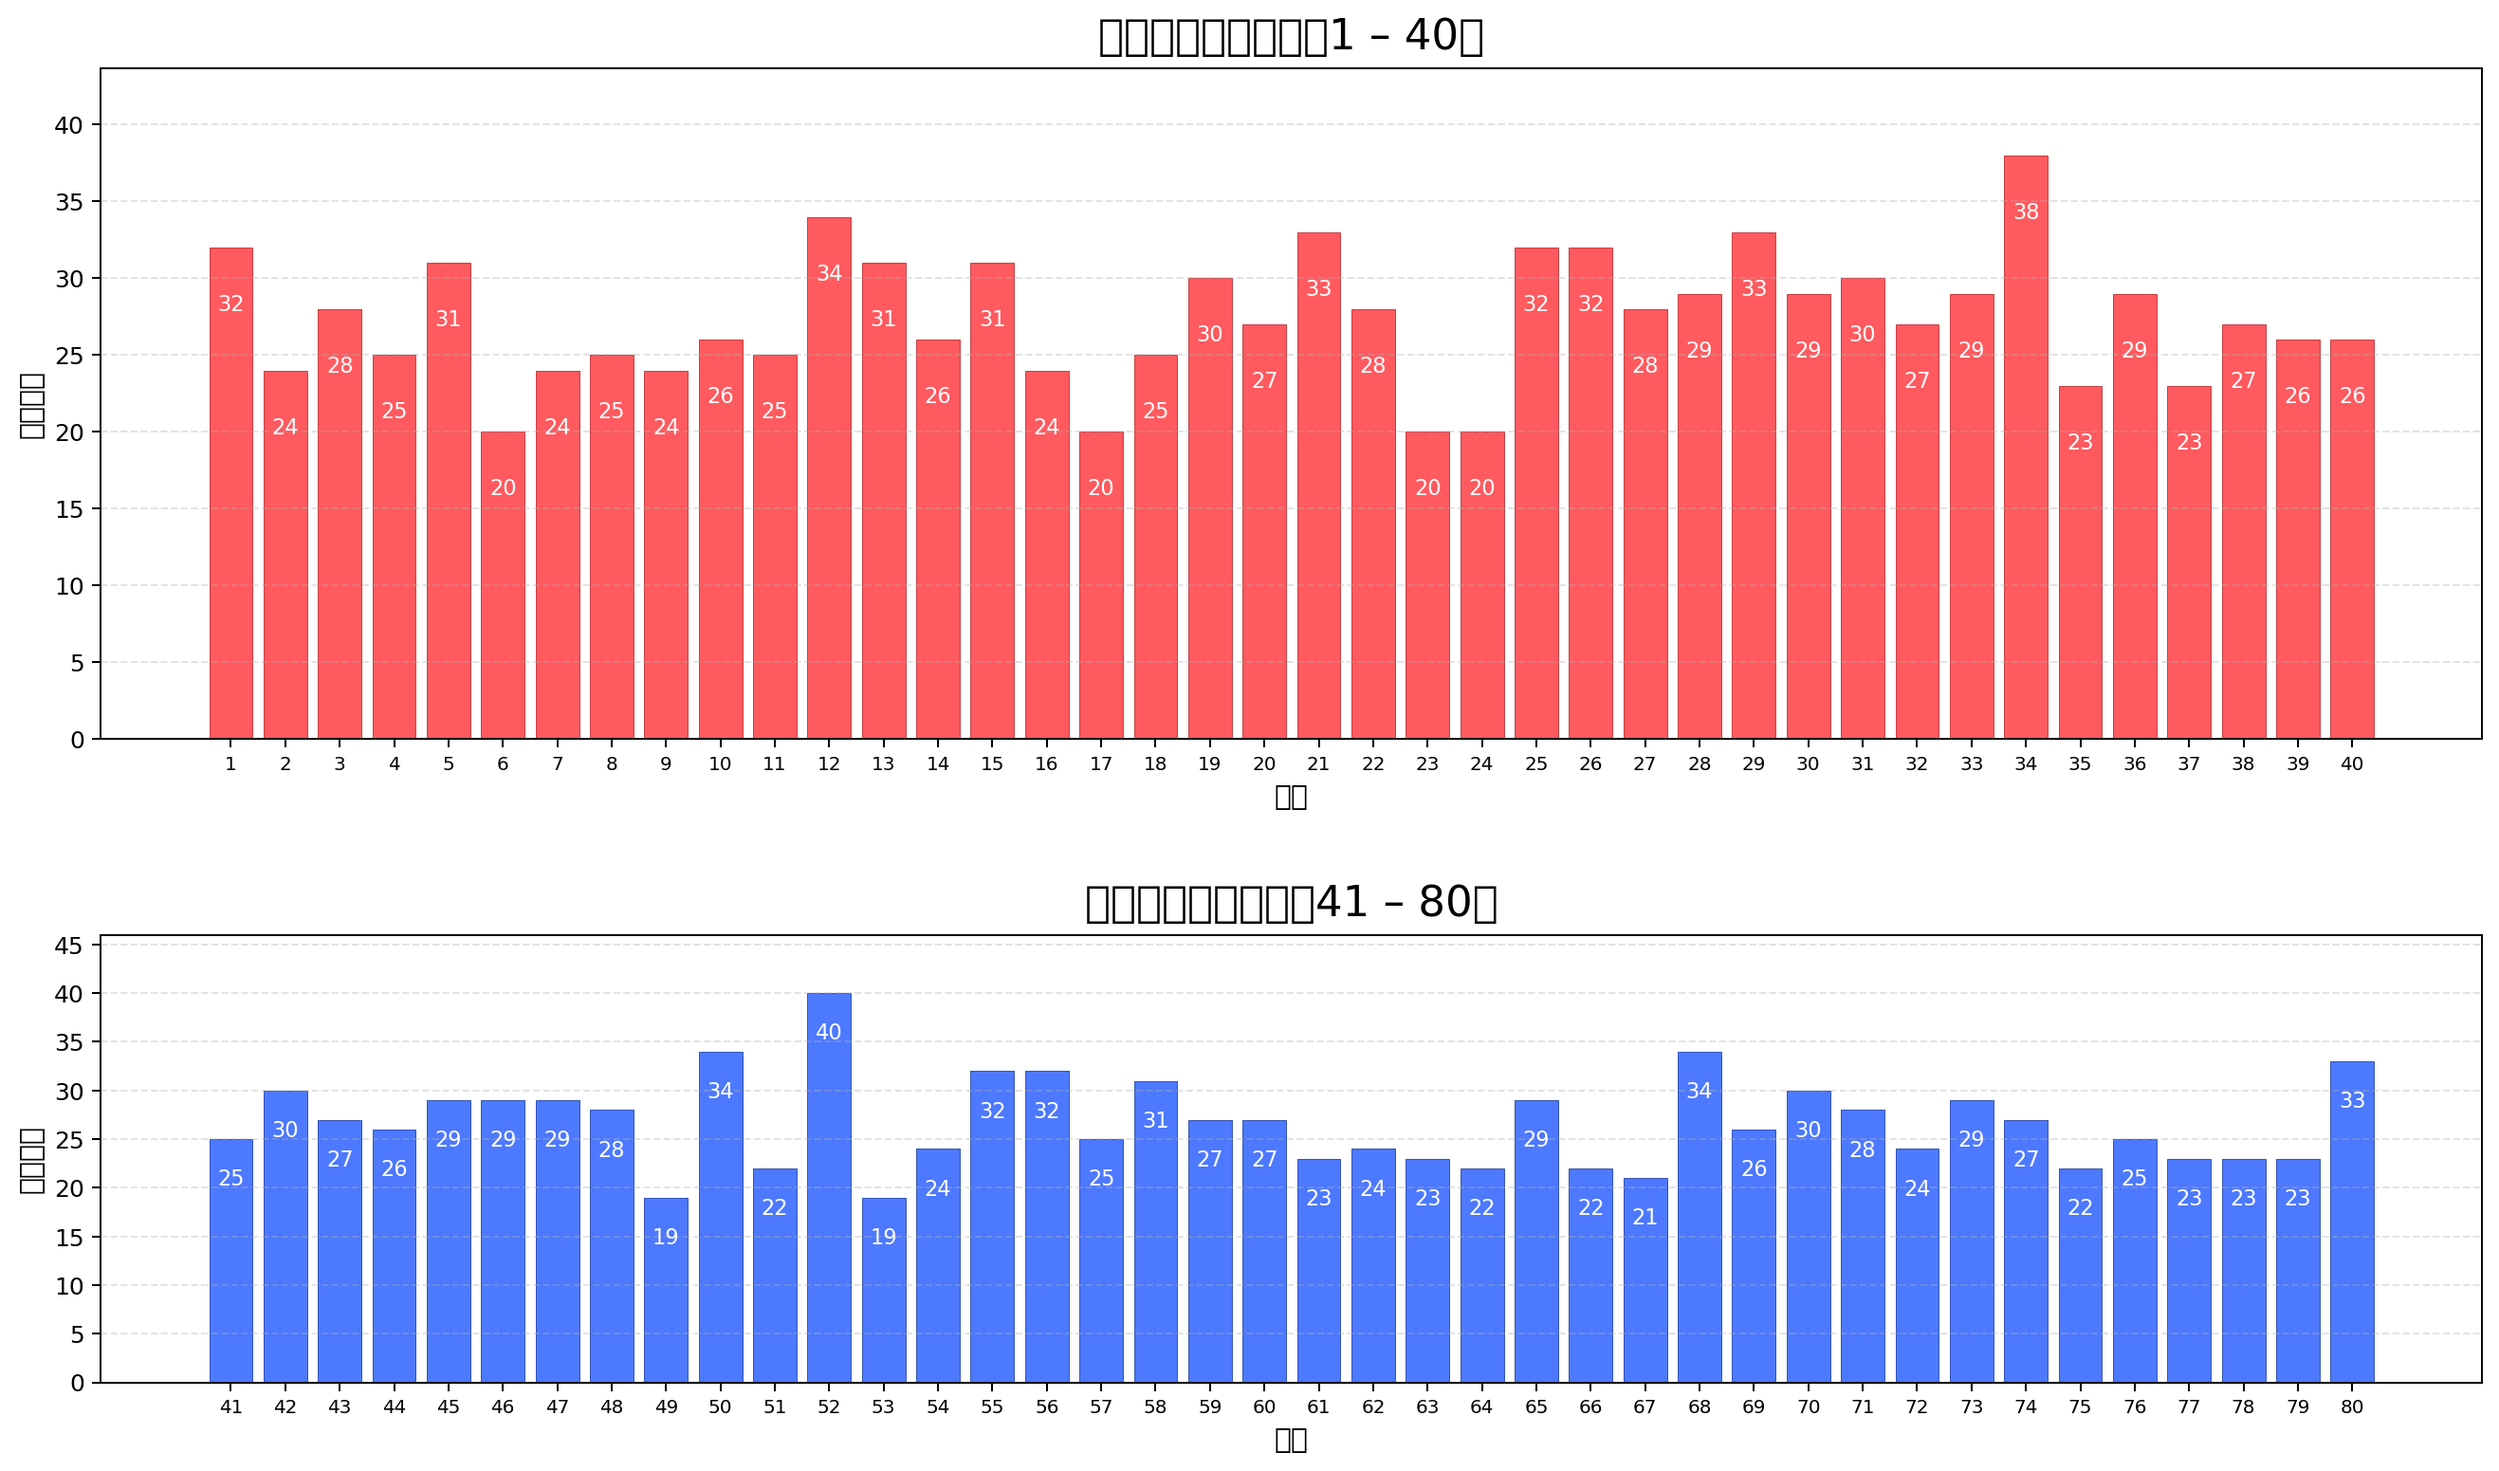
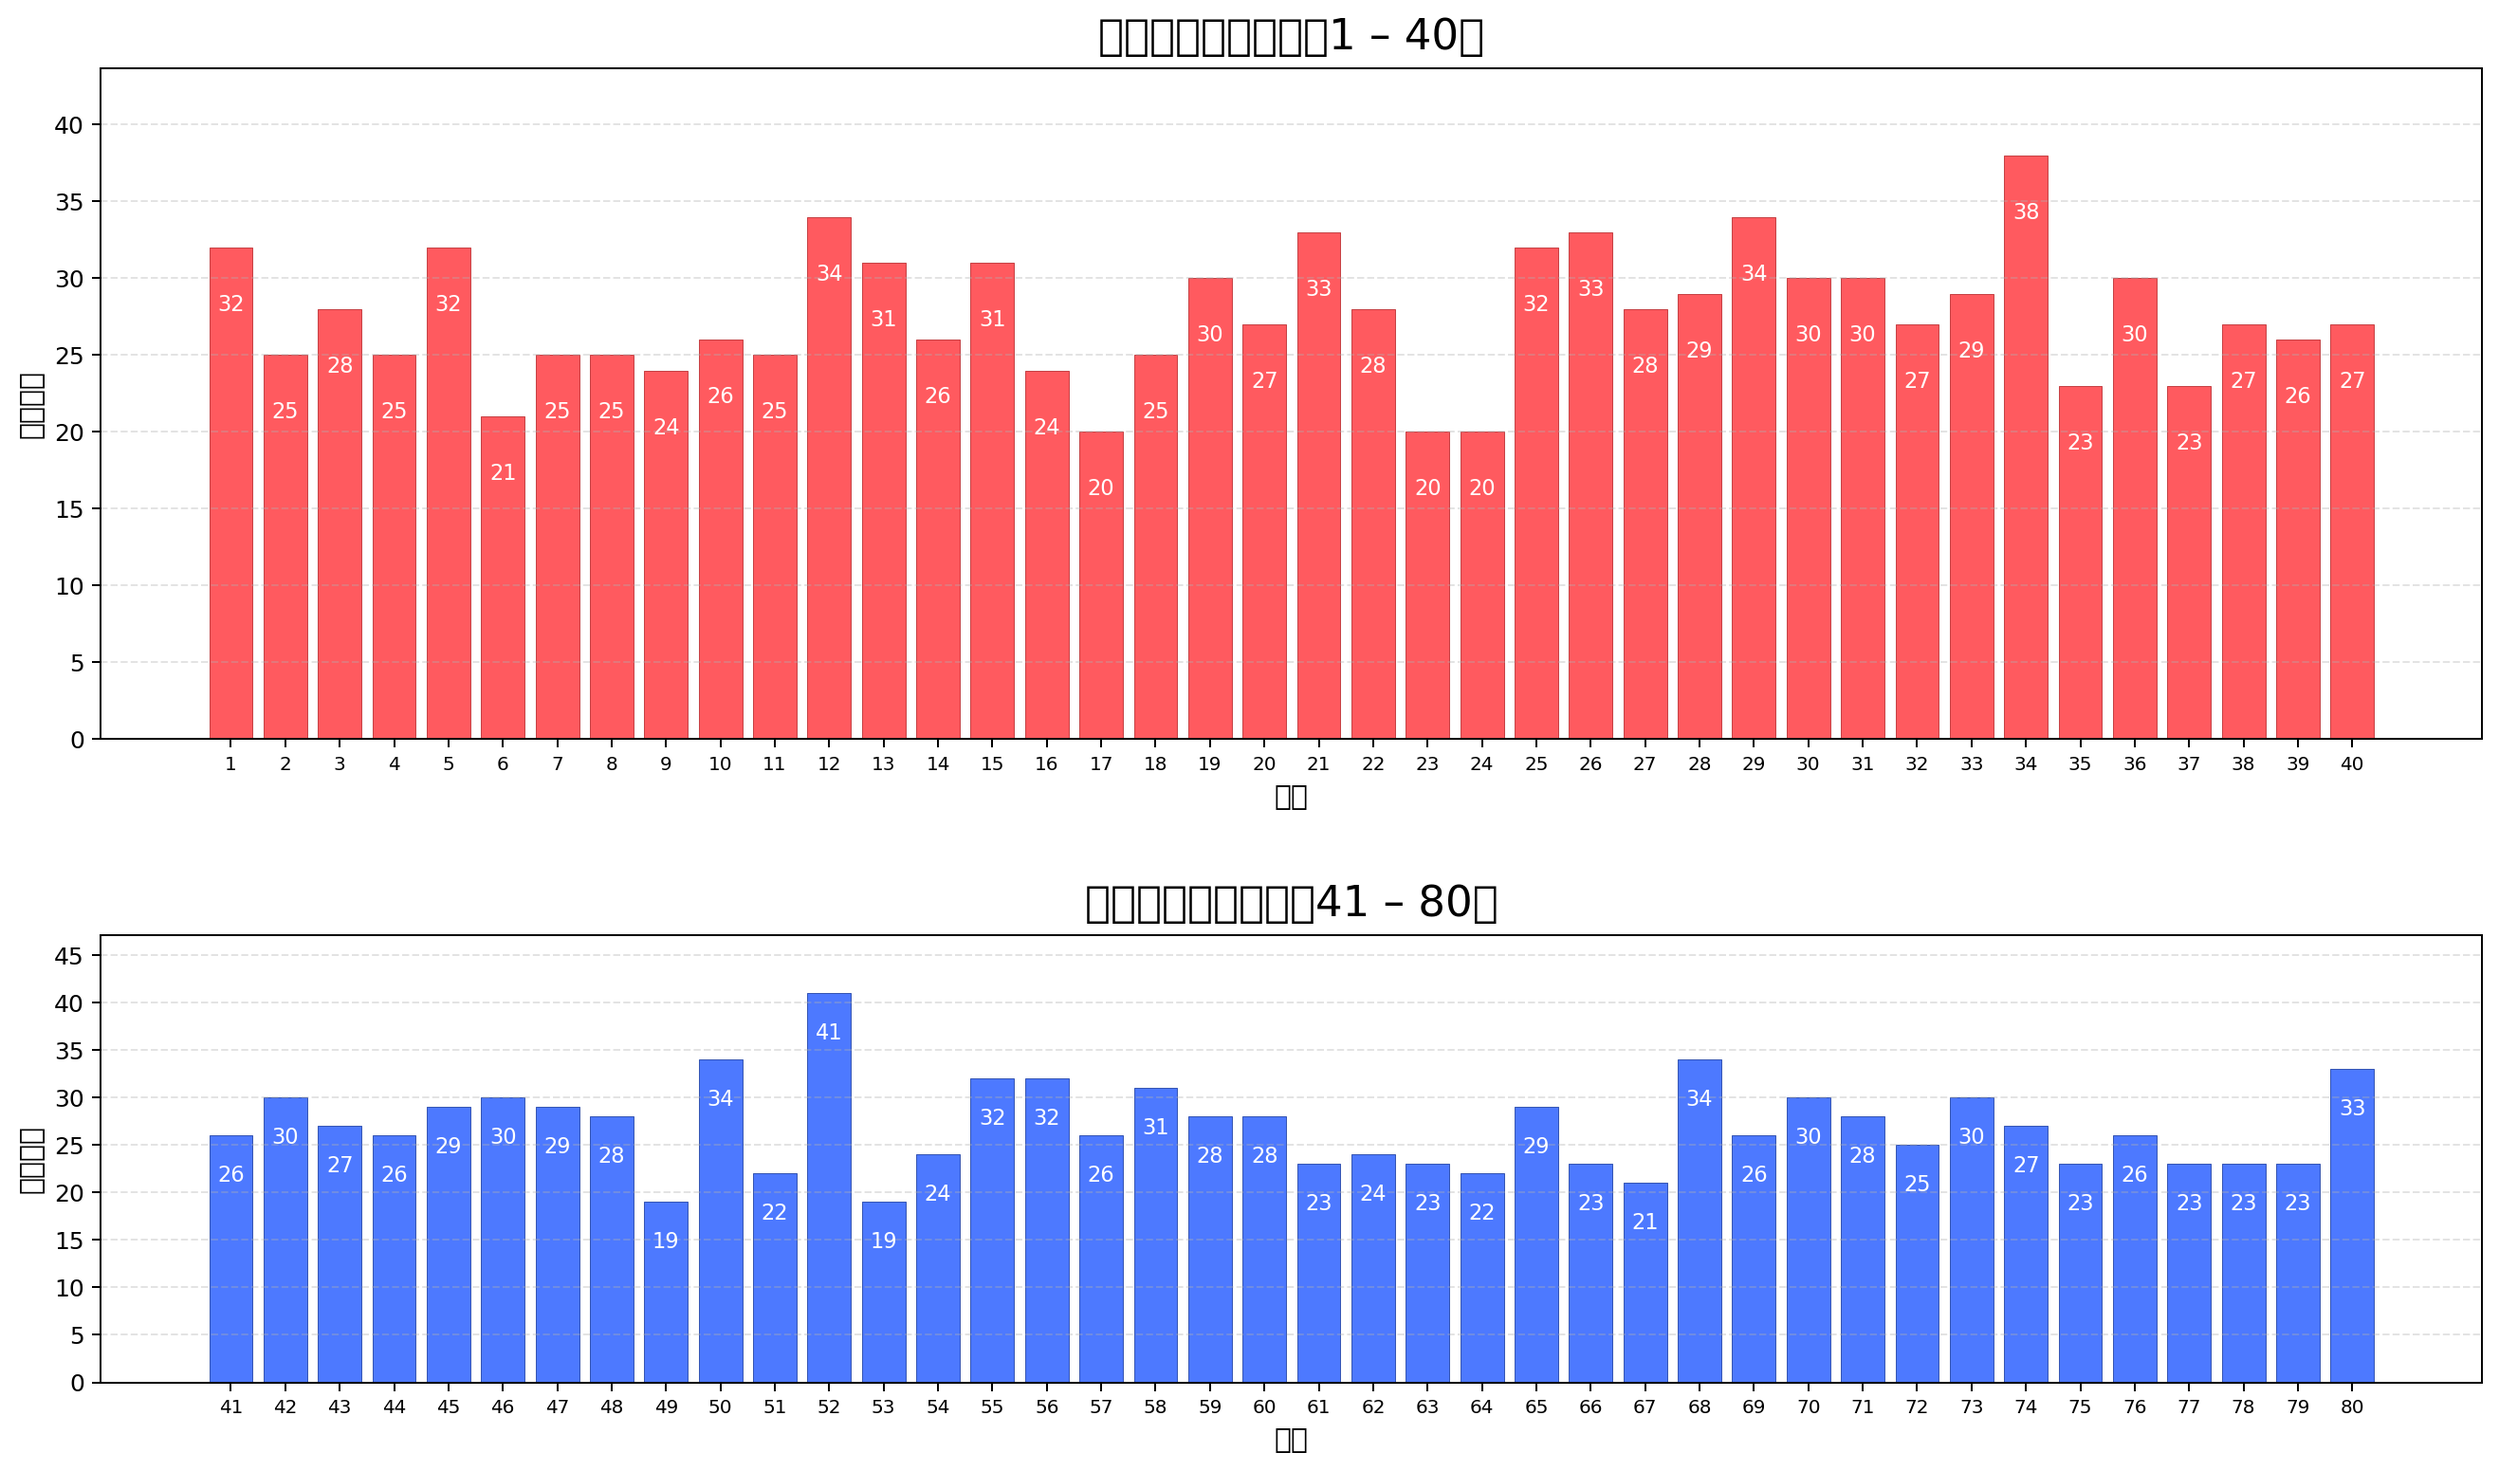
Update lottery data and analysis reports - 2025-08-23 23:13:16 (UTC+8)

diff --git a/reports/kl8_analysis_report.md b/reports/kl8_analysis_report.md
@@ -3,30 +3,30 @@
 > 免责声明：历史数据无法预测未来。本报告仅供技术学习参考，不构成投注建议。
 
 
-**数据期数**: 108 期
+**数据期数**: 109 期
 
-**最近开奖**: 期号 2025224 | 日期 2025-08-22(五) | 号码: 05, 09, 10, 11, 12, 18, 23, 33, 37, 41, 45, 46, 55, 58, 63, 69, 70, 71, 74, 78
+**最近开奖**: 期号 2025225 | 日期 2025-08-23(六) | 号码: 02, 05, 06, 07, 26, 29, 30, 36, 40, 41, 46, 52, 57, 59, 60, 66, 72, 73, 75, 76
 
-**和值均值(样本)**: 804.09 ；**理论期望**: 810
+**和值均值(样本)**: 804.59 ；**理论期望**: 810
 
 
 ## 热号 Top15
 
-52(40), 34(38), 12(34), 50(34), 68(34), 21(33), 29(33), 80(33), 01(32), 25(32), 26(32), 55(32), 56(32), 05(31), 13(31)
+52(41), 34(38), 12(34), 29(34), 50(34), 68(34), 21(33), 26(33), 80(33), 01(32), 05(32), 25(32), 55(32), 56(32), 13(31)
 
 
 ## 冷号 Top15
 
-53(19), 49(19), 24(20), 23(20), 17(20), 06(20), 67(21), 75(22), 66(22), 64(22), 51(22), 79(23), 78(23), 77(23), 63(23)
+53(19), 49(19), 24(20), 23(20), 17(20), 67(21), 06(21), 64(22), 51(22), 79(23), 78(23), 77(23), 75(23), 66(23), 63(23)
 
 
 ## 推荐组合（示例，非投注建议）
 
-- 方案1: 01, 04, 05, 06, 09, 20, 21, 22, 23, 24, 35, 42, 45, 49, 51, 54, 55, 58, 67, 71
-- 方案2: 09, 10, 12, 28, 29, 32, 42, 43, 44, 47, 48, 55, 57, 63, 64, 66, 68, 69, 76, 78
-- 方案3: 04, 17, 18, 19, 21, 22, 26, 27, 33, 36, 43, 49, 50, 55, 60, 67, 69, 71, 74, 80
-- 方案4: 05, 08, 09, 11, 18, 22, 33, 34, 36, 41, 45, 47, 48, 53, 63, 68, 71, 76, 79, 80
-- 方案5: 01, 04, 07, 09, 10, 13, 25, 26, 38, 41, 43, 56, 57, 59, 61, 65, 69, 70, 74, 76
+- 方案1: 01, 03, 04, 05, 07, 20, 21, 22, 23, 25, 36, 42, 46, 50, 52, 55, 56, 59, 68, 72
+- 方案2: 07, 09, 12, 28, 29, 32, 42, 43, 44, 47, 49, 56, 57, 63, 65, 66, 68, 70, 76, 78
+- 方案3: 05, 07, 08, 11, 18, 23, 33, 34, 36, 41, 46, 47, 49, 54, 64, 68, 72, 76, 79, 80
+- 方案4: 01, 03, 05, 08, 09, 13, 25, 27, 38, 41, 43, 57, 58, 60, 62, 66, 70, 71, 74, 76
+- 方案5: 06, 07, 09, 11, 17, 20, 21, 23, 35, 36, 38, 40, 45, 52, 55, 61, 64, 69, 72, 75
 
 ---
 

diff --git a/reports/kl8_profit_plan.md b/reports/kl8_profit_plan.md
@@ -4,16 +4,16 @@
 
 - 总预算：¥22.00 ； 单注价格：¥2.00 ； 计划总注数：11
 
-- 最近开奖：期号 2025224 | 日期 2025-08-22(五) | 号码：05, 09, 10, 11, 12, 18, 23, 33, 37, 41, 45, 46, 55, 58, 63, 69, 70, 71, 74, 78
+- 最近开奖：期号 2025225 | 日期 2025-08-23(六) | 号码：02, 05, 06, 07, 26, 29, 30, 36, 40, 41, 46, 52, 57, 59, 60, 66, 72, 73, 75, 76
 
 
 ## 推荐组合与资金分配
 
-- 方案01 | 分数 0.276168 | 注数   2 | 金额 ¥4.00 | 号码：01, 04, 05, 06, 09, 20, 21, 22, 23, 24, 35, 42, 45, 49, 51, 54, 55, 58, 67, 71
-- 方案02 | 分数 0.281214 | 注数   2 | 金额 ¥4.00 | 号码：09, 10, 12, 28, 29, 32, 42, 43, 44, 47, 48, 55, 57, 63, 64, 66, 68, 69, 76, 78
-- 方案03 | 分数 0.292721 | 注数   2 | 金额 ¥4.00 | 号码：04, 17, 18, 19, 21, 22, 26, 27, 33, 36, 43, 49, 50, 55, 60, 67, 69, 71, 74, 80
-- 方案04 | 分数 0.313142 | 注数   3 | 金额 ¥6.00 | 号码：05, 08, 09, 11, 18, 22, 33, 34, 36, 41, 45, 47, 48, 53, 63, 68, 71, 76, 79, 80
-- 方案05 | 分数 0.309347 | 注数   2 | 金额 ¥4.00 | 号码：01, 04, 07, 09, 10, 13, 25, 26, 38, 41, 43, 56, 57, 59, 61, 65, 69, 70, 74, 76
+- 方案01 | 分数 0.323513 | 注数   3 | 金额 ¥6.00 | 号码：01, 03, 04, 05, 07, 20, 21, 22, 23, 25, 36, 42, 46, 50, 52, 55, 56, 59, 68, 72
+- 方案02 | 分数 0.270463 | 注数   2 | 金额 ¥4.00 | 号码：07, 09, 12, 28, 29, 32, 42, 43, 44, 47, 49, 56, 57, 63, 65, 66, 68, 70, 76, 78
+- 方案03 | 分数 0.302911 | 注数   2 | 金额 ¥4.00 | 号码：05, 07, 08, 11, 18, 23, 33, 34, 36, 41, 46, 47, 49, 54, 64, 68, 72, 76, 79, 80
+- 方案04 | 分数 0.276598 | 注数   2 | 金额 ¥4.00 | 号码：01, 03, 05, 08, 09, 13, 25, 27, 38, 41, 43, 57, 58, 60, 62, 66, 70, 71, 74, 76
+- 方案05 | 分数 0.282718 | 注数   2 | 金额 ¥4.00 | 号码：06, 07, 09, 11, 17, 20, 21, 23, 35, 36, 38, 40, 45, 52, 55, 61, 64, 69, 72, 75
 
 **合计**：¥22.00
 

diff --git a/reports/color_ball_analysis_report.md b/reports/color_ball_analysis_report.md
@@ -1,7 +1,7 @@
 # 🎯 双色球数据分析报告
 
 ## 📊 报告信息
-- **生成时间**: 2025年08月22日 23:15:23 (UTC+8)
+- **生成时间**: 2025年08月23日 23:13:07 (UTC+8)
 - **数据期数**: 共 1903 期
 - **下一期开奖日(按周)**: 周日
 - **最新期号**: 2025096
@@ -239,6 +239,6 @@
 
 ---
 
-*报告生成时间: 2025年08月22日 23:15:23 (UTC+8)*  
+*报告生成时间: 2025年08月23日 23:13:07 (UTC+8)*  
 *数据来源: 中国福利彩票官方网站*  
 *仅供学习研究使用，请理性购彩*

diff --git a/reports/double_color_balls_profits.md b/reports/double_color_balls_profits.md
@@ -5,7 +5,7 @@
 
 **⚠ 以下推荐号码基于历史统计分析，仅供参考，不保证中奖！**
 
-### 双色球推荐 (更新时间: 2025年08月22日 23:15:29)
+### 双色球推荐 (更新时间: 2025年08月23日 23:13:12)
 
 **推荐 1** (ML低熵): `02 06 14 15 17 31` + `15`  
 *LSTM+ARIMA+MonteCarlo 低熵组合 | 3奇3偶 | 和值:85 | 跨度:29*
@@ -23,6 +23,7 @@
 *LSTM+ARIMA+MonteCarlo 低熵组合 | 4奇2偶 | 和值:118 | 跨度:25*
 
 <!-- END:recommendations -->
+
 
 
 
